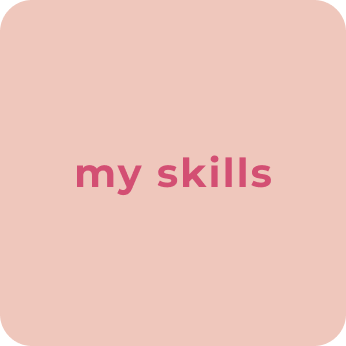
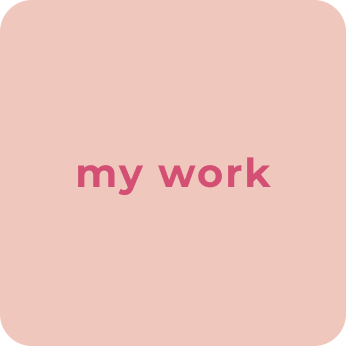
css needs improvement

Changed region(s): [[0.4335, 0.4335, 0.7803, 0.5491], [0.2312, 0.4624, 0.4046, 0.5491]]

diff --git a/index.html b/index.html
@@ -27,7 +27,7 @@
 </section>
 <section class="mySkills">
     <h1> My UX Skills </h1>
-    <div class="flexContainer">
+    <div class="flex-container">
         <div>
             <img src="/IMAGES/Analyze.png">
             <h3>User Research</h3>
@@ -42,6 +42,36 @@
             <p> Paragraph about wireframing</p>
         </div>
     </div>
+</section>
+<section class="myWork">
+    <h1> My Work</h1>
+    <div class="workGrid">
+        <div> 
+            <img src="/IMAGES/Frame 11.png">
+        </div>
+        <div>
+            <h4> Work </h4>
+            <p> Paragraph </p>
+            <button> View Project </button>
+        </div>
+        <div>
+            <img src="/IMAGES/Frame 7.png">
+        </div>
+        <div> 
+             <h4> Pik Me </h4>
+            <p> Paragraph </p>
+            <button> View Project </button>
+        </div>
+        <div>
+            <img src="/IMAGES/Frame 7.png">
+        </div>
+        <div> 
+             <h4> Pik Me </h4>
+            <p> Paragraph </p>
+            <button> View Project </button>
+        </div>
+    </div>
+    <h3> View All Projects</h3>
 </section>
 <footer>
     <ul>
